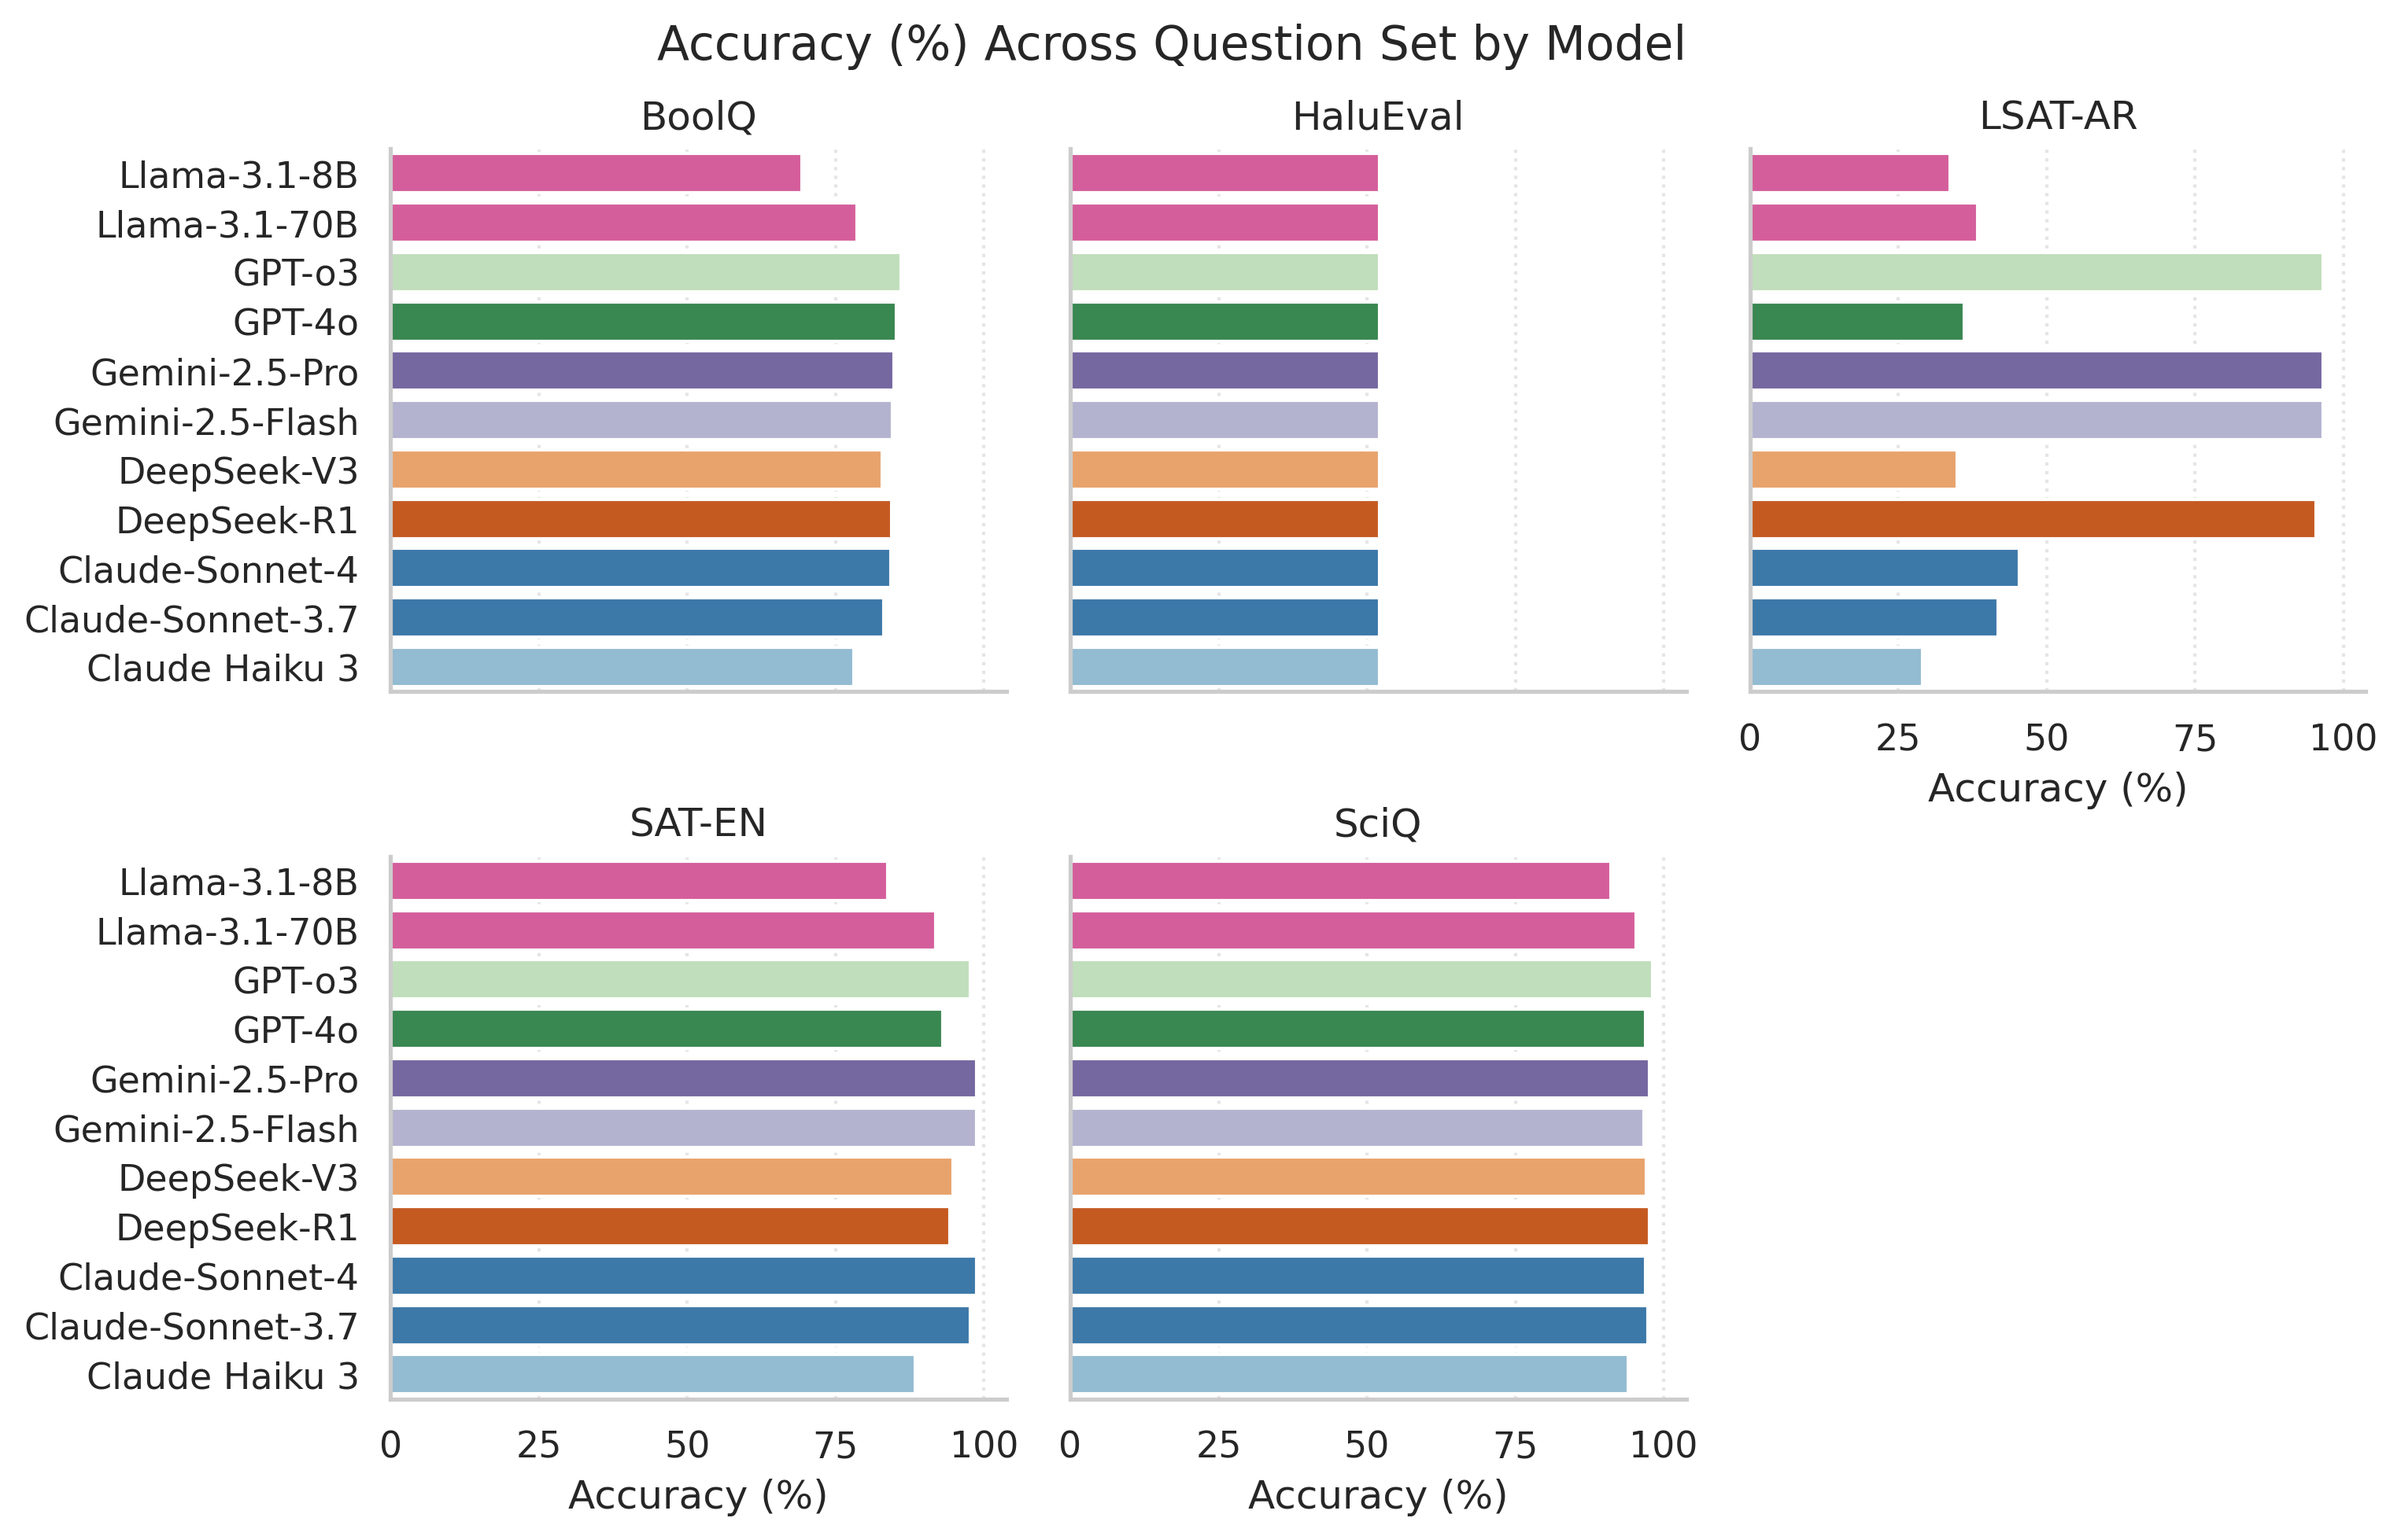
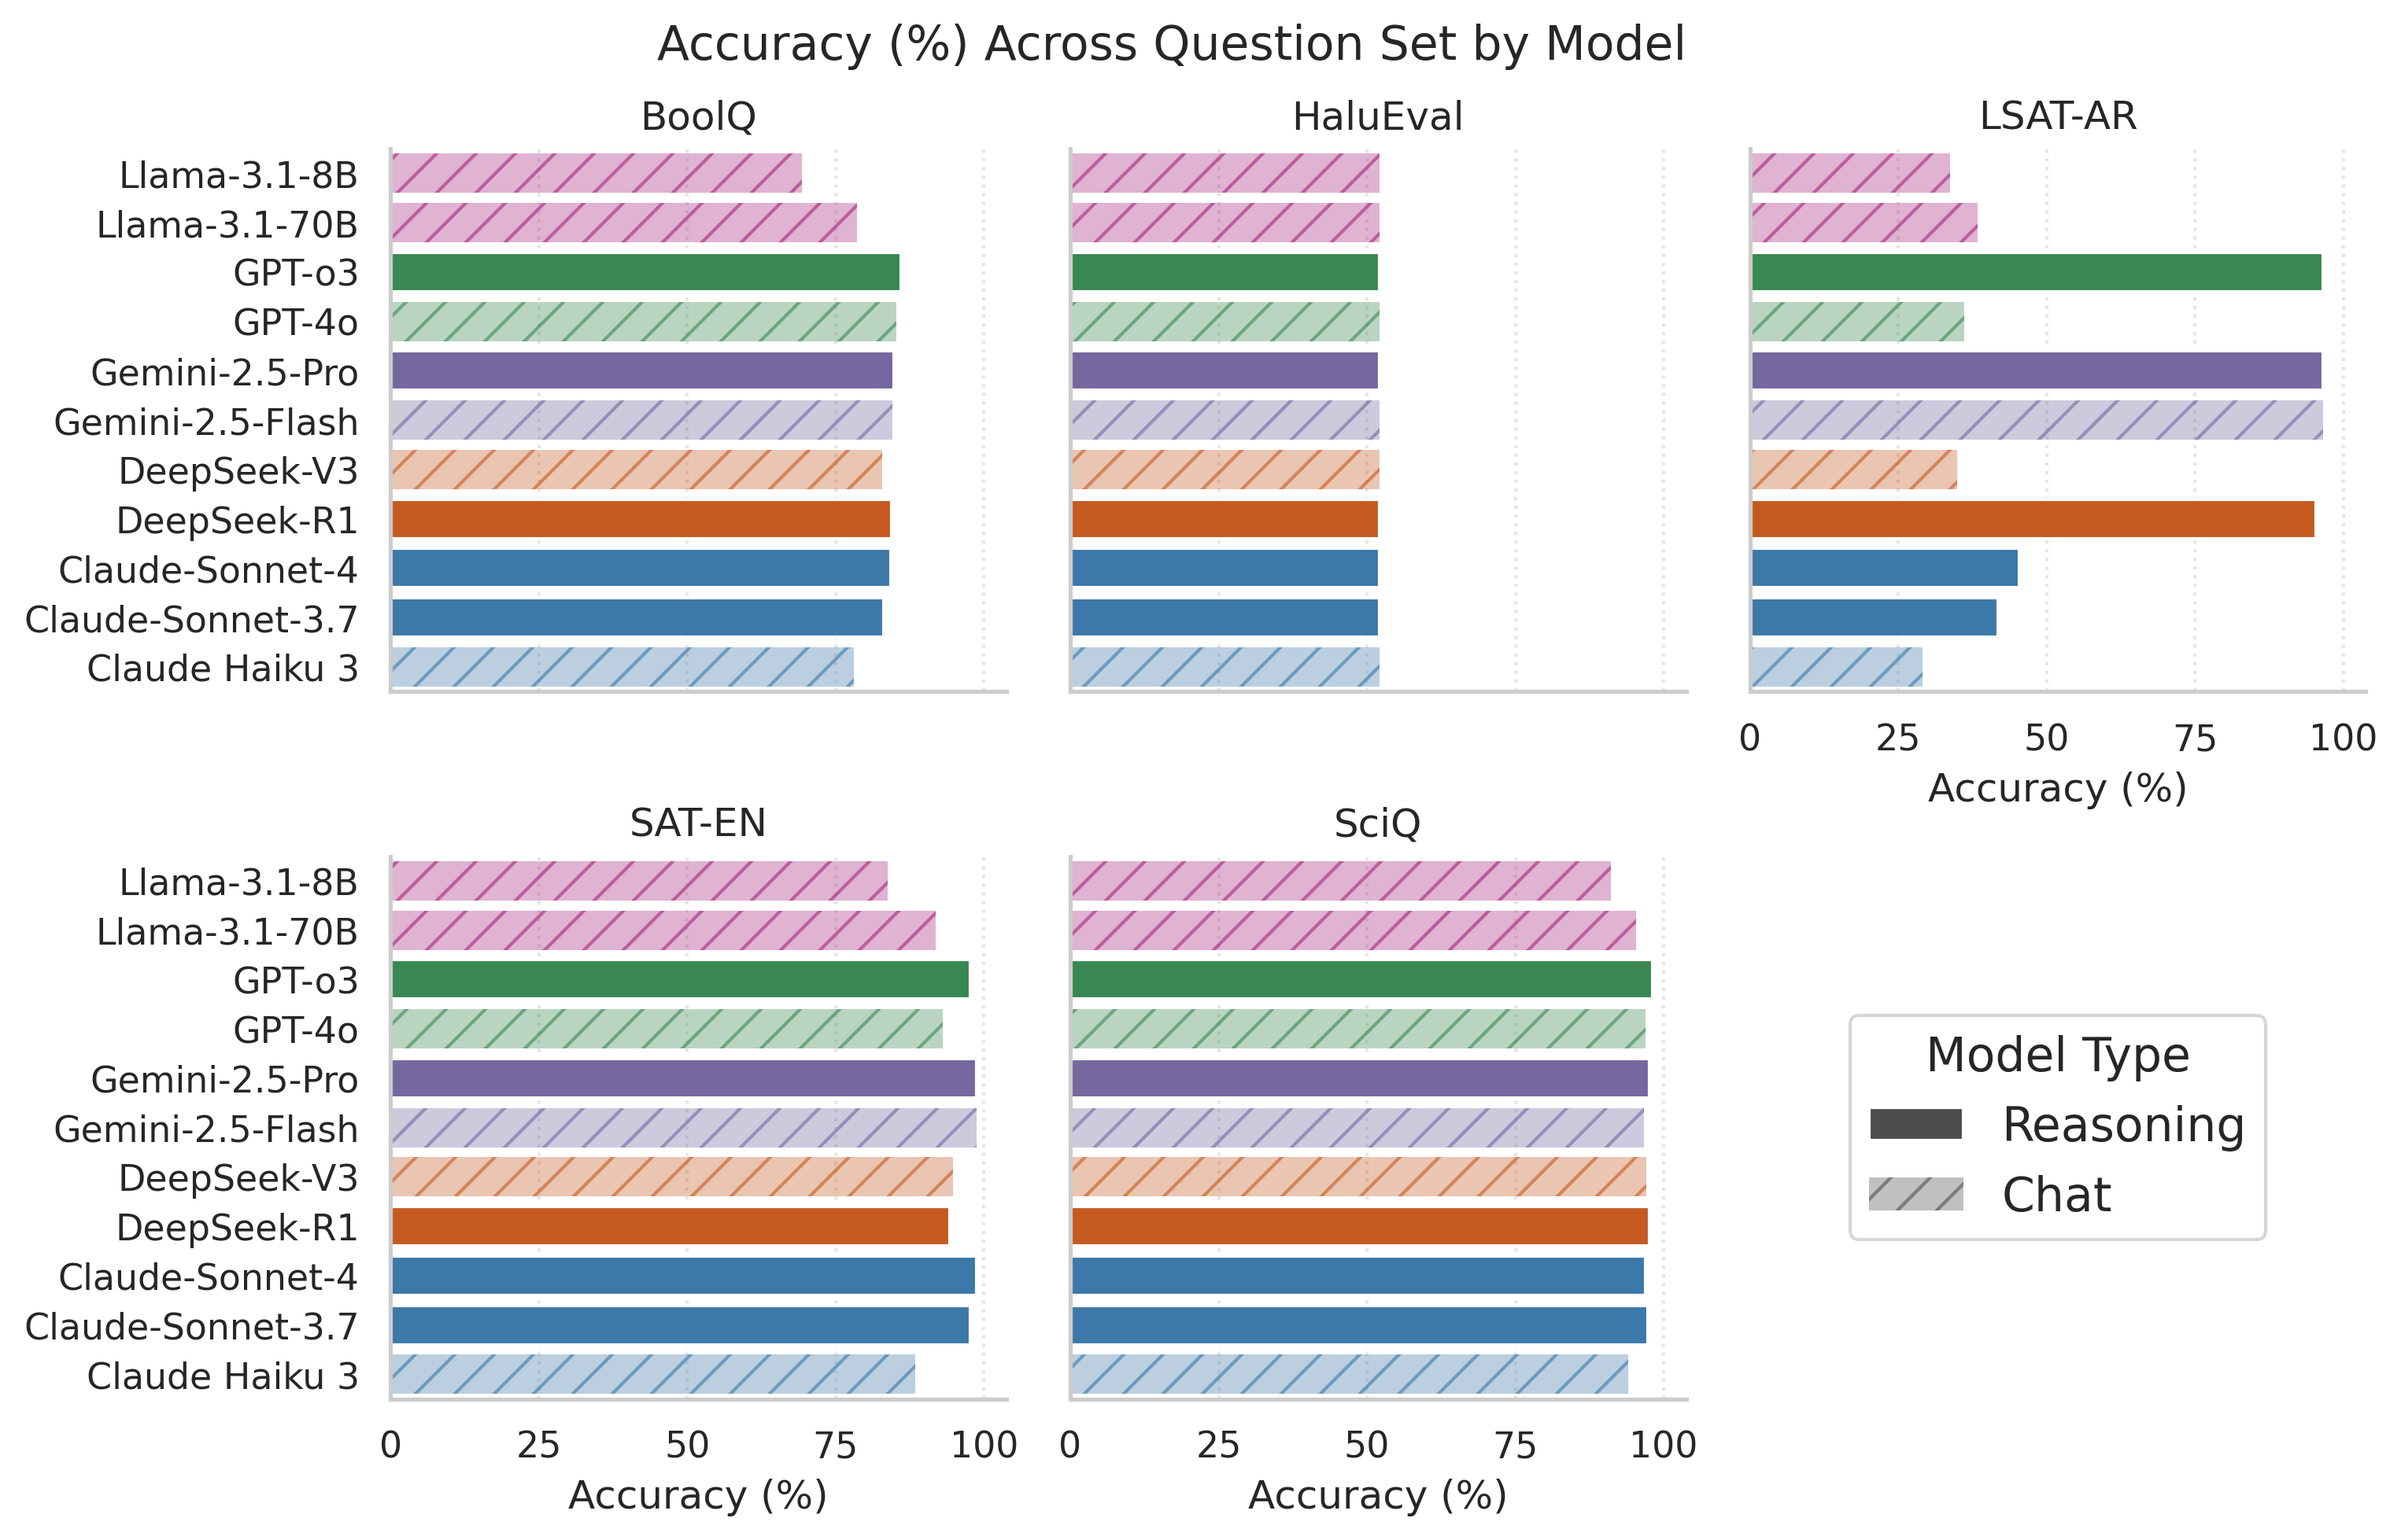
Distinguish reasoning vs chat models in study-1 summary plots
In the cross-benchmark summary bar plots (ece_all, acc_all, oc_all):
- one hue per model family; reasoning models solid, chat models faded
  to 35% opacity with soft diagonal hatching for visibility
- Model Type legend placed in the empty sixth facet slot

diff --git a/study-1-benchmark-calibration/plots.py b/study-1-benchmark-calibration/plots.py
@@ -426,7 +426,15 @@ def summary_plots(df: pd.DataFrame, stats: pd.DataFrame):
     out = PLOTS / "Summary Plots"
     out.mkdir(parents=True, exist_ok=True)
 
-    palette = {m: pick_color(m) for m in stats["model"].unique()}
+    # One solid hue per family; reasoning models keep it bold, chat models get
+    # the same hue faded (patch alpha below), so lightness encodes model type
+    chat_alpha = 0.35
+    hatch_alpha = 0.6
+    palette = {m: FAMILY_PALETTES[model_family(m)][4] for m in stats["model"].unique()}
+    reasoning_handles = [
+        Patch(facecolor=(0.3, 0.3, 0.3, 1.0), label="Reasoning"),
+        Patch(facecolor=(0.3, 0.3, 0.3, chat_alpha), edgecolor=(0.3, 0.3, 0.3, hatch_alpha), linewidth=0, hatch="//", label="Chat"),
+    ]
     for col, label, filename in (
         ("ece", "ECE", "ece_all.png"),
         ("accuracy", "Accuracy (%)", "acc_all.png"),
@@ -450,7 +458,32 @@ def summary_plots(df: pd.DataFrame, stats: pd.DataFrame):
         for ax in g.axes.flat:
             ax.axvline(0, linestyle="--", linewidth=1, color="0.2")
             ax.grid(True, axis="x", linestyle=":", alpha=0.5)
+            # seaborn drops alpha from palette colors, so fade chat bars here;
+            # each bar's y-center is its model's index in MODEL_ORDER
+            for patch in ax.patches:
+                idx = int(round(patch.get_y() + patch.get_height() / 2))
+                if 0 <= idx < len(MODEL_ORDER) and MODEL_ORDER[idx] not in REASONING_MODELS:
+                    # fade the fill only; hatch draws in the full-strength
+                    # family color (hatch follows edgecolor, not facecolor)
+                    fc = patch.get_facecolor()
+                    patch.set_facecolor((fc[0], fc[1], fc[2], chat_alpha))
+                    patch.set_edgecolor((fc[0], fc[1], fc[2], hatch_alpha))
+                    patch.set_linewidth(0)
+                    patch.set_hatch("//")
         g.figure.suptitle(f"{label} Across Question Set by Model", y=1.02)
+        # center the legend in the empty sixth facet slot (below LSAT-AR)
+        slot_x = g.axes.flat[2].get_position()
+        slot_y = g.axes.flat[3].get_position()
+        g.figure.legend(
+            handles=reasoning_handles,
+            title="Model Type",
+            loc="center",
+            frameon=True,
+            fontsize="large",
+            title_fontsize="large",
+            bbox_to_anchor=(slot_x.x0 + slot_x.width / 2, slot_y.y0 + slot_y.height / 2),
+            bbox_transform=g.figure.transFigure,
+        )
         g.figure.savefig(out / filename, dpi=300, bbox_inches="tight")
         plt.close(g.figure)
         print(f"  wrote {out / filename}")
